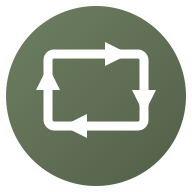
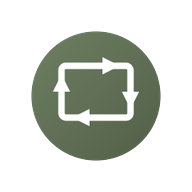
Add Progressive Web App (PWA) support for dashboard
- Add manifest.json with app metadata, icons, and standalone display mode
- Add service worker for offline asset caching
- Add PWA meta tags for iOS and Android compatibility
- Add route to serve service worker from root path
- Resize app icons with more padding for Android adaptive icon safe zone
- Keep original icons as backups (icon-*-original.png)

Users can now install the dashboard as an app on Android/iOS:
Menu → "Add to Home screen" → Opens in standalone mode

🤖 Generated with [Claude Code](https://claude.com/claude-code)

diff --git a/src/web/static/sw.js b/src/web/static/sw.js
@@ -1,0 +1,89 @@
+// PhotoLoop Service Worker
+// Copyright (c) 2025 Luc Vincent. All Rights Reserved.
+
+const CACHE_NAME = 'photoloop-v2';
+const STATIC_ASSETS = [
+  '/',
+  '/static/style.css',
+  '/static/logo.svg',
+  '/static/favicon.svg',
+  '/static/icon-192.png',
+  '/static/icon-512.png'
+];
+
+// Install event - cache static assets
+self.addEventListener('install', (event) => {
+  event.waitUntil(
+    caches.open(CACHE_NAME)
+      .then((cache) => {
+        return cache.addAll(STATIC_ASSETS);
+      })
+      .then(() => {
+        return self.skipWaiting();
+      })
+  );
+});
+
+// Activate event - clean up old caches
+self.addEventListener('activate', (event) => {
+  event.waitUntil(
+    caches.keys().then((cacheNames) => {
+      return Promise.all(
+        cacheNames.map((cacheName) => {
+          if (cacheName !== CACHE_NAME) {
+            return caches.delete(cacheName);
+          }
+        })
+      );
+    }).then(() => {
+      return self.clients.claim();
+    })
+  );
+});
+
+// Fetch event - serve from cache, fall back to network
+self.addEventListener('fetch', (event) => {
+  // Skip non-GET requests
+  if (event.request.method !== 'GET') {
+    return;
+  }
+
+  // For API calls, always use network first
+  if (event.request.url.includes('/api/')) {
+    event.respondWith(
+      fetch(event.request)
+        .catch(() => {
+          // Return a simple offline response for API calls
+          return new Response(
+            JSON.stringify({ error: 'Offline', offline: true }),
+            { headers: { 'Content-Type': 'application/json' } }
+          );
+        })
+    );
+    return;
+  }
+
+  // For static assets, try cache first, then network
+  event.respondWith(
+    caches.match(event.request)
+      .then((response) => {
+        if (response) {
+          return response;
+        }
+        return fetch(event.request)
+          .then((response) => {
+            // Don't cache non-successful responses
+            if (!response || response.status !== 200) {
+              return response;
+            }
+            // Cache successful responses for static assets
+            const responseToCache = response.clone();
+            caches.open(CACHE_NAME)
+              .then((cache) => {
+                cache.put(event.request, responseToCache);
+              });
+            return response;
+          });
+      })
+  );
+});

diff --git a/src/web/templates/settings.html b/src/web/templates/settings.html
@@ -5,6 +5,13 @@
     <meta charset="UTF-8">
     <meta name="viewport" content="width=device-width, initial-scale=1.0">
     <title>PhotoLoop Dashboard</title>
+    <!-- PWA Meta Tags -->
+    <meta name="theme-color" content="#1a1a2e">
+    <meta name="mobile-web-app-capable" content="yes">
+    <meta name="apple-mobile-web-app-capable" content="yes">
+    <meta name="apple-mobile-web-app-status-bar-style" content="black-translucent">
+    <meta name="apple-mobile-web-app-title" content="PhotoLoop">
+    <link rel="manifest" href="{{ url_for('static', filename='manifest.json') }}">
     <link rel="icon" type="image/svg+xml" href="{{ url_for('static', filename='favicon.svg') }}">
     <link rel="icon" type="image/png" sizes="32x32" href="{{ url_for('static', filename='favicon-32.png') }}">
     <link rel="icon" type="image/png" sizes="16x16" href="{{ url_for('static', filename='favicon-16.png') }}">
@@ -242,6 +249,17 @@
     </div>
 
     <script>
+        // Register Service Worker for PWA
+        if ('serviceWorker' in navigator) {
+            navigator.serviceWorker.register('/sw.js')
+                .then((registration) => {
+                    console.log('ServiceWorker registered:', registration.scope);
+                })
+                .catch((error) => {
+                    console.log('ServiceWorker registration failed:', error);
+                });
+        }
+
         // Tab switching
         document.querySelectorAll('.tab').forEach(tab => {
             tab.addEventListener('click', () => {

diff --git a/src/web/app.py b/src/web/app.py
@@ -65,6 +65,16 @@ def create_app(
             config=config_to_dict(app.photoloop_config)
         )
 
+    @app.route('/sw.js')
+    def service_worker():
+        """Serve service worker from root for proper scope."""
+        from flask import send_from_directory
+        return send_from_directory(
+            app.static_folder,
+            'sw.js',
+            mimetype='application/javascript'
+        )
+
     @app.route('/api/status')
     def api_status():
         """Get current status."""
